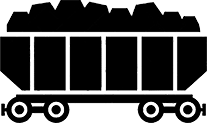
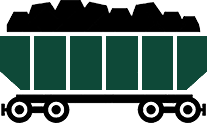
SZEM4 Wagons design

diff --git a/scripts/SZEM4.js b/scripts/SZEM4.js
@@ -13,7 +13,7 @@ function loadXMLDoc(dname) {
 }
 
 if (typeof(AZON)!="undefined") { alert("Itt már fut SZEM. \n Ha ez nem igaz, nyitsd meg új lapon a játékot, és próbáld meg ott futtatni"); exit();}
-var VERZIO = 'v4.5 Build 23.05.11';
+var VERZIO = 'v4.5 Build 23.05.12';
 try{ /*Rendszeradatok*/
 	var AZON="S0";
 	if (window.name.indexOf(AZON)>-1) AZON="S1";
@@ -131,8 +131,8 @@ function init(){try{
 		table.vis { color:black; }
 		table.vis td, table.vis th { padding: 3px 6px 3px 6px; }
 		#farm_honnan tr td:last-child {
-			font-size:50%;
-			width:130px;
+			font-size: 60%;
+			width: 130px;
 		}
 		#farm_hova tr td:last-child {
 			width: 135px;
@@ -173,8 +173,8 @@ function init(){try{
 		#vije_opts input[type="checkbox"] { width: 17px; height: 17px; }
 
 		.tooltip-wrapper { display: flex; flex-wrap: wrap; gap: 10px 0; }
-		.tooltip-wrapper img { padding-left: 0; padding-right: 0; }
-		.tooltip_hover { position: relative; }
+		.tooltip-wrapper img { padding-left: 2px; padding-right: 0; display: table-cell; }
+		.tooltip_hover { position: relative; display: table; border-collapse: collapse; }
 		.tooltip_text { position: absolute; z-index: 1; left: 50%; bottom: 100%; transform: translateX(-50%); white-space: nowrap; font-style: normal; background: gray; padding: 5px 8px; border-radius: 3px; margin-bottom: 5px; color: white; opacity: 0; border: 1px solid black; }
 		.bottom-tooltip .tooltip_text { top: 100%; bottom: auto; }
 		.tooltip_text:after { content: ""; position: absolute; top: 100%; left: 50%; transform: translateX(-50%); border-top: 5px solid gray; border-left: 5px solid transparent; border-right: 5px solid transparent }
@@ -699,15 +699,12 @@ function windowOpener(id, url, windowId) {
 function addTooltip(el, text) {
 	removeTooltip(el.closest('.tooltip-wrapper'));
 	$(el).children('.tooltip_text').css({"opacity": "1"});
-	// var thisText = $(el).attr('title');
-	// $(el).removeAttr('title');
 	$(el).children('.tooltip_text').html(text);
 }
 function removeTooltip(el) {
 	$(el).find('.tooltip_hover').each(function(i, el) {
 		var thisText = $(el).children('.tooltip_text').html();
 		if (thisText == "") return;
-		$(el).attr('title', thisText);
 		$(el).children('.tooltip_text').html("");
 		$(el).children('.tooltip_text').css({"opacity": "0"});
 	});
@@ -738,10 +735,15 @@ function addWagons(farmRow) {
 	const tmp = document.createElement('div');
 	tmp.setAttribute('class', 'tooltip-wrapper');
 	let tmp_content = '';
-	attacks.forEach((element, index) => {
+	let hatarszam = parseInt(document.getElementById('farmolo_options').hatarszam.value,10);
+	attacks.forEach((attack, index) => {
+		let wagonType = 'wagon_normal.png';
+		if (attack[2] > (hatarszam * 5)) wagonType = 'wagon_nuclear.png';
+		else if (attack[2] > (hatarszam * 0.66)) wagonType = 'wagon_coal.png';
+		else if (attack[2] < 5 && attack[0] < 5) wagonType = 'wagon_empty.png';
 		tmp_content += `
 		<span onmouseenter="setTooltip(this, ${index})" class="tooltip_hover">
-			<img src="${pic('wagon.png')}" title="" width="40px">
+			<img src="${pic(wagonType)}" title="" width="40px">
 			<span class="tooltip_text"></span>
 		</span>`
 	});
@@ -1058,6 +1060,9 @@ function addCurrentMovementToList(formEl, farmCoord, farmHelyRow) {
 		}
 	}
 
+	if (teherbiras < 10 && VIJE_teher < 10) {
+		debug('addCurrentMovementToList', `ERROR: ${formEl.querySelector('.icon.header.ressources').parentElement.innerText} -- teherbírás=0; Farm: ${farmCoord} | Innen: ${FARM_REF.game_data.village.display_name}`);
+	}
 	var allAttack = ALL_UNIT_MOVEMENT[farmCoord];
 	if (!allAttack) {
 		ALL_UNIT_MOVEMENT[farmCoord] = [[teherbiras, arriveTime, VIJE_teher]];
